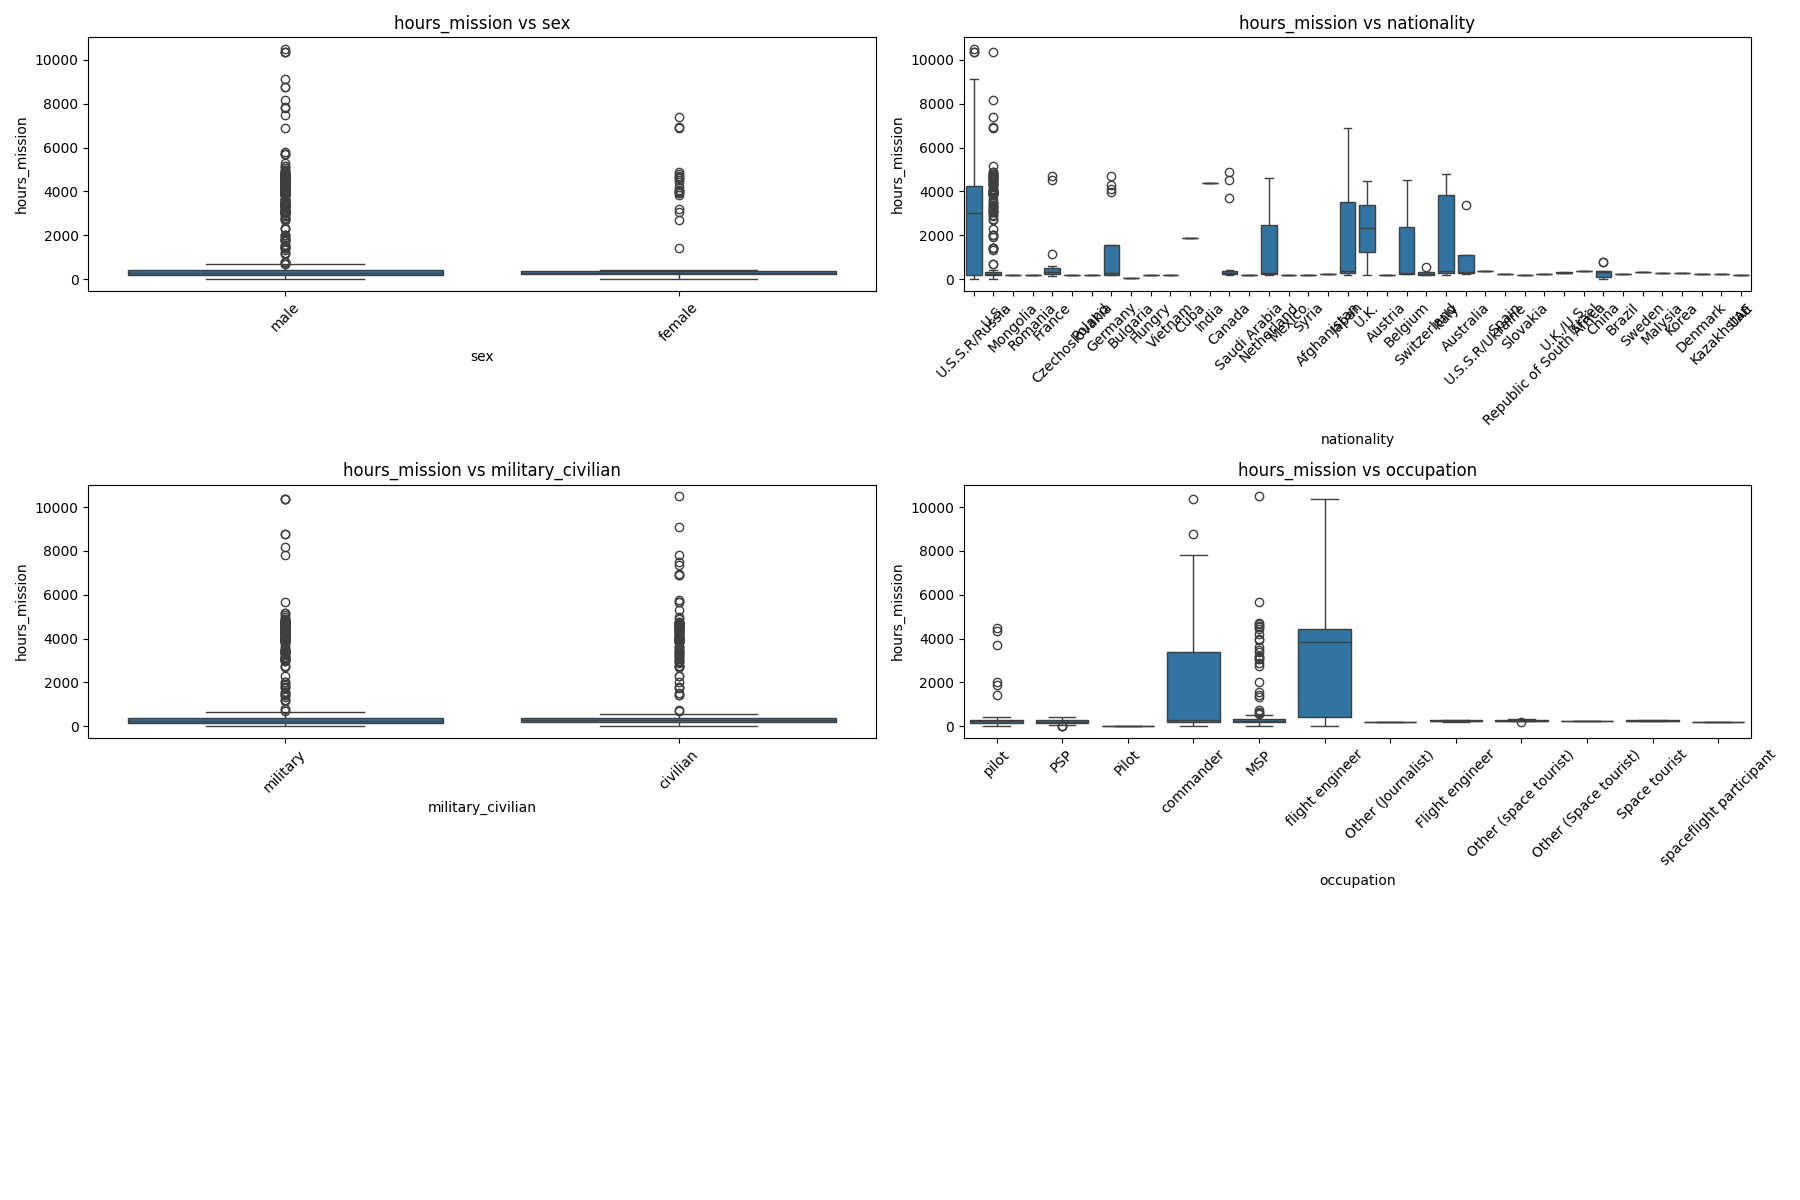
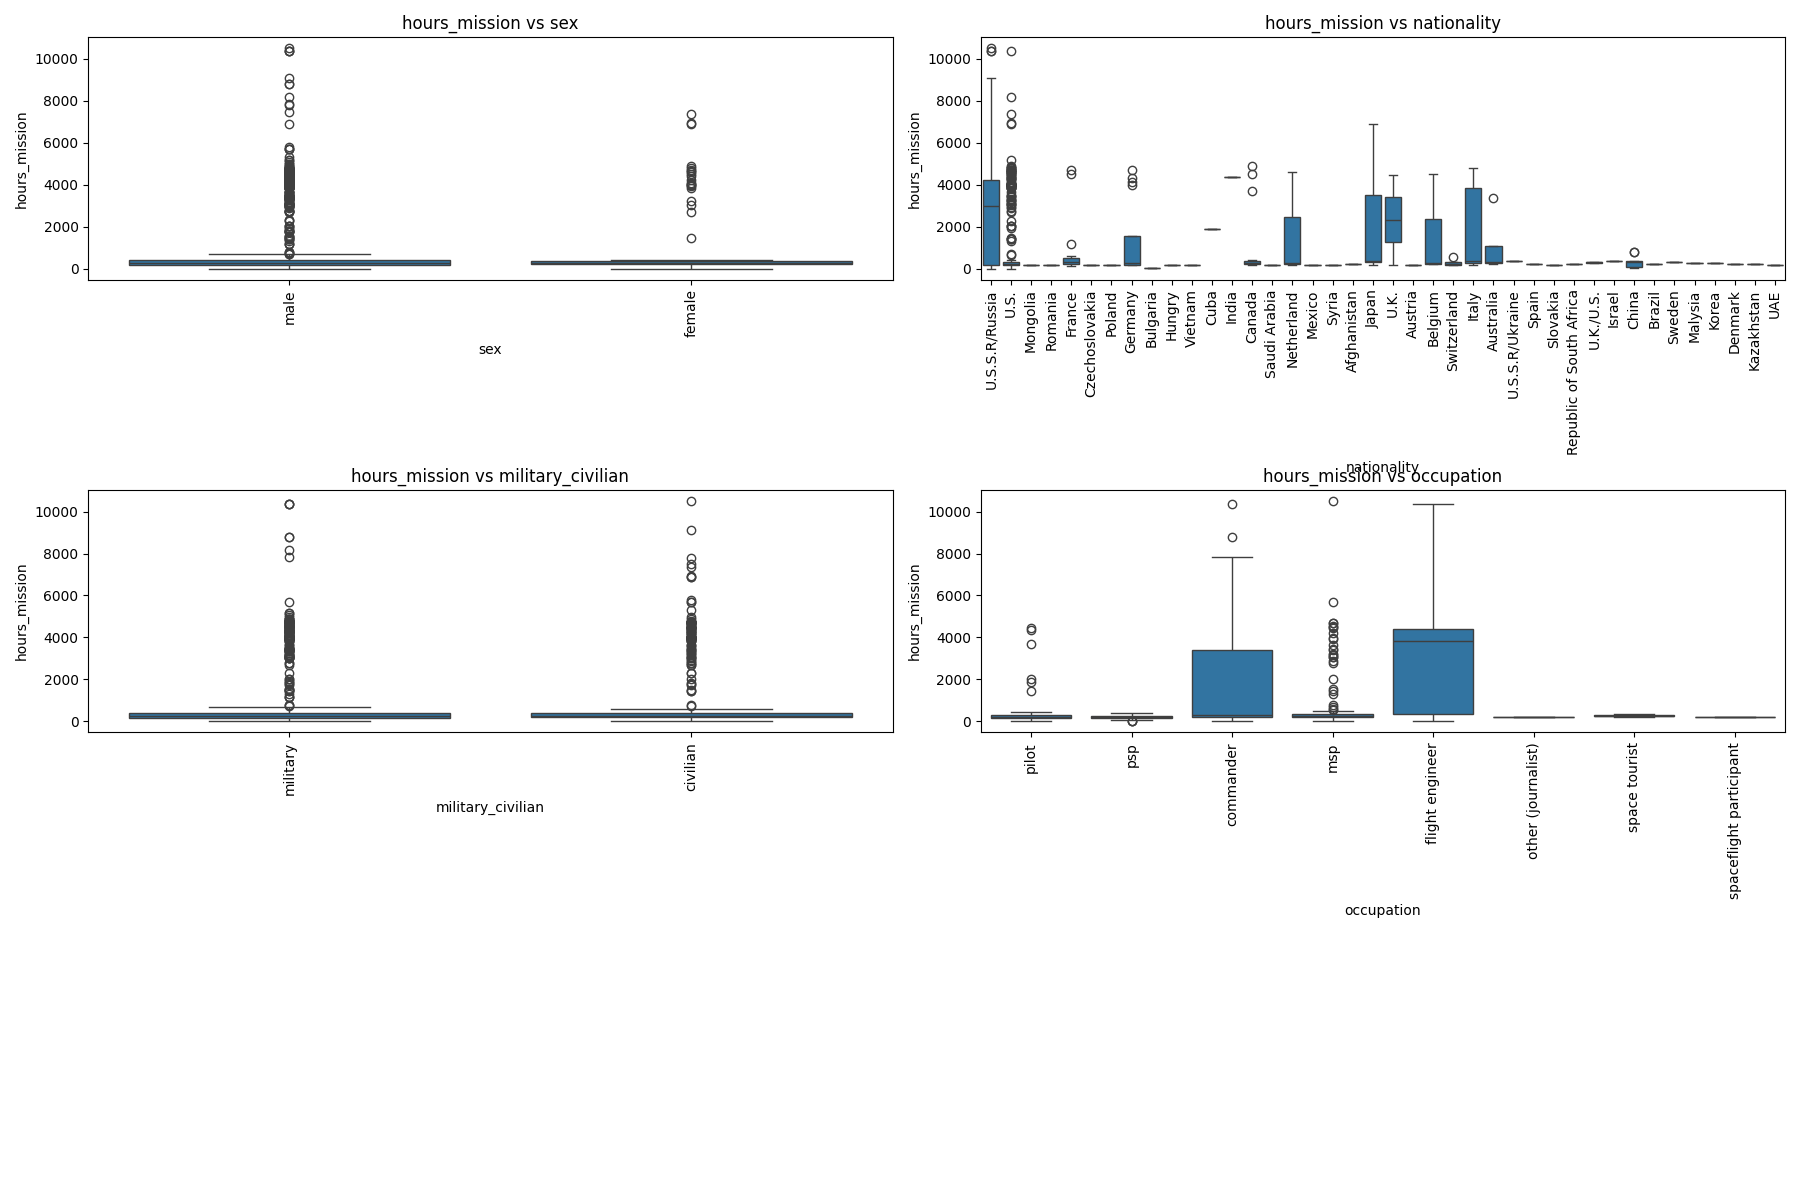
Ejercicio 1 realizado.

diff --git a/ejercicio1_descriptivo.py b/ejercicio1_descriptivo.py
@@ -17,6 +17,44 @@ def load_data(path):
     """
     return pd.read_csv(path)
 
+def preprocess_df(df):
+    """
+    Limpieza y feature engineering del dataset.
+    """
+
+    df = df.copy()
+
+    # ---------------------------
+    # Feature engineering
+    # ---------------------------
+    df["age"] = df["year_of_mission"] - df["year_of_birth"]
+    df["years_since_selection"] = df["year_of_mission"] - df["year_of_selection"]
+
+    # ---------------------------
+    # Drop columnas irrelevantes
+    # ---------------------------
+    cols_to_drop = [
+        "id",
+        "name",
+        "original_name",
+        "number",
+        "nationwide_number",
+        "field21",
+        "year_of_birth"
+    ]
+
+    df = df.drop(columns=cols_to_drop)
+
+    # ---------------------------
+    # Limpieza occupation
+    # --------------------------
+    df["occupation"] = df["occupation"].str.strip().str.lower()
+
+    df["occupation"] = df["occupation"].replace({
+        "other (space tourist)": "space tourist"
+    })
+
+    return df
 
 def structural_summary(df):
     """
@@ -91,32 +129,6 @@ def numerical_summary(df):
     dict: información de outliers para hours_mission
     """
 
-    df = df.copy()  # 🔒 evita modificar el original
-
-    # ---------------------------
-    # Feature engineering
-    # ---------------------------
-    df["age"] = df["year_of_mission"] - df["year_of_birth"]
-    df["years_since_selection"] = df["year_of_mission"] - df["year_of_selection"]
-
-    # ---------------------------
-    # Columnas a eliminar
-    # ---------------------------
-    cols_to_drop = [
-        "id",
-        "name",
-        "original_name",
-        "number",
-        "nationwide_number",
-        "field21",
-        "year_of_birth"
-    ]
-
-    df = df.drop(columns=cols_to_drop)
-
-    # ---------------------------
-    # Variables numéricas
-    # ---------------------------
     num_df = df.select_dtypes(include=[np.number])
 
     # ---------------------------
@@ -179,10 +191,10 @@ def plot_boxplots(df, target, cat_cols, output_path):
     for i, col in enumerate(cat_cols):
         plt.subplot((n // 2) + 1, 2, i + 1)
         sns.boxplot(data=df, x=col, y=target)
-        plt.xticks(rotation=45)
+        plt.xticks(rotation=90)
+        plt.tight_layout()
         plt.title(f"{target} vs {col}")
 
-    plt.tight_layout()
     plt.savefig(output_path)
     plt.close()
 
@@ -201,8 +213,145 @@ def detect_outliers_iqr(df, col):
 
     return stats
 
+def summarize_outliers(df):
+    """
+    Calcula número de outliers por variable numérica usando IQR.
+
+    Returns:
+    dict: {columna: nº de outliers}
+    """
+    num_df = df.select_dtypes(include=[np.number])
+
+    results = {}
+
+    for col in num_df.columns:
+        stats = detect_outliers_iqr(num_df, col)
+        results[col] = stats["n_outliers"]
+
+    return results
+
+def categorical_analysis(df, output_path, top_n=10):
+    """
+    Genera análisis de variables categóricas:
+    - Frecuencia absoluta y relativa
+    - Gráficos de barras (top N categorías)
+
+    Parameters:
+    df (pd.DataFrame): Dataset ya preprocesado
+    output_path (str): Ruta de guardado
+    top_n (int): número de categorías a mostrar
+    """
+
+    cat_cols = df.select_dtypes(include=["object", "string"]).columns
+
+    n = len(cat_cols)
+
+    plt.figure(figsize=(18, 5 * n))
+
+    results = {}
+
+    for i, col in enumerate(cat_cols):
+
+        # ---------------------------
+        # Frecuencias
+        # ---------------------------
+        freq_abs = df[col].value_counts()
+        freq_rel = df[col].value_counts(normalize=True) * 100
+
+        summary = pd.DataFrame({
+            "count": freq_abs,
+            "percentage": freq_rel
+        })
+
+        results[col] = summary
+
+        # ---------------------------
+        # Top N para graficar
+        # ---------------------------
+        top_data = summary.head(top_n)
+
+        # ---------------------------
+        # Plot
+        # ---------------------------
+        plt.subplot(n, 1, i + 1)
+
+        labels = [
+            f"{cat} ({pct:.1f}%)"
+            for cat, pct in zip(top_data.index, top_data["percentage"])
+        ]
+
+        sns.barplot(
+            x=labels,
+            y=top_data["count"]
+        )
+
+        plt.title(f"{col}")
+        plt.xticks(rotation=45)
+
+    plt.tight_layout()
+    plt.savefig(output_path)
+    plt.close()
+
+    return results
+
+def plot_correlation_heatmap(df, output_path):
+    """
+    Genera heatmap de correlaciones (Pearson) para variables numéricas.
+    """
+
+    num_df = df.select_dtypes(include=[np.number])
+
+    corr = num_df.corr(method="pearson")
+
+    plt.figure(figsize=(12, 10))
+
+    sns.heatmap(
+        corr,
+        annot=True,
+        fmt=".2f",
+        cmap="coolwarm",
+        center=0
+    )
+
+    plt.title("Matriz de correlación (Pearson)")
+    plt.tight_layout()
+    plt.savefig(output_path)
+    plt.close()
+
+    return corr
+
+def get_top_correlations(corr_matrix, target, n=3):
+    """
+    Obtiene las variables más correlacionadas con el target.
+    """
+
+    target_corr = corr_matrix[target].drop(target)
+
+    top_corr = target_corr.abs().sort_values(ascending=False).head(n)
+
+    return top_corr
+
+def detect_multicollinearity(corr_matrix, threshold=0.9):
+    """
+    Detecta pares de variables altamente correlacionadas.
+    """
+
+    pairs = []
+
+    cols = corr_matrix.columns
+
+    for i in range(len(cols)):
+        for j in range(i + 1, len(cols)):
+            val = corr_matrix.iloc[i, j]
+
+            if abs(val) > threshold:
+                pairs.append((cols[i], cols[j], val))
+
+    return pairs
 
 if __name__ == "__main__":
+    
+    # 1. Cargar datos
     df = load_data("data/astronauts.csv")
 
     summary = structural_summary(df)
@@ -213,38 +362,62 @@ if __name__ == "__main__":
     print("\nTipos de datos:\n", summary["dtypes"])
     print("\nValores nulos:\n", summary["nulls"])
 
-    df = pd.read_csv("data/astronauts.csv")
+    # 2. Preprocesar UNA vez
+    df_clean = preprocess_df(df)
 
+    # 3. Estadísticos
     desc, target_metrics = numerical_summary(df)
 
-    # Guardar output requerido
     desc.to_csv("output/ej1_descriptivo.csv", float_format="%.3f")
 
-    # ---------------------------
-    # Histogramas
-    # ---------------------------
-    plot_histograms(
-        df,
-        output_path="output/ej1_histogramas.png"
-    )
+    # 4. Histogramas
+    plot_histograms(df_clean, "output/ej1_histogramas.png")
 
-    # ---------------------------
-    # Boxplots (target vs categóricas)
-    # ---------------------------
-
+    # 5. Boxplots
     target = "hours_mission"
 
-    categorical_cols = df.select_dtypes(include=["object"]).columns.tolist()
+    categorical_cols = df_clean.select_dtypes(include=["object", "string"]).columns.tolist()
 
-    # opcional: limpiar categóricas irrelevantes
     categorical_cols = [
         col for col in categorical_cols
-        if df[col].nunique() < 50  # evita variables tipo nombre
+        if df_clean[col].nunique() < 50
     ]
 
-    plot_boxplots(
-        df,
-        target=target,
-        cat_cols=categorical_cols,
-        output_path="output/ej1_boxplots.png"
+    plot_boxplots(df_clean, target, categorical_cols, "output/ej1_boxplots.png")
+
+    # 6. Outliers
+    outliers_summary = summarize_outliers(df_clean)
+
+    with open("output/ej1_outliers.txt", "w") as f:
+        f.write("Método utilizado: IQR (1.5 * IQR)\n\n")
+
+        total = len(df_clean)
+
+        for col, n in outliers_summary.items():
+            pct = (n / total) * 100
+            f.write(f"{col}: {n} outliers ({pct:.2f}%)\n")
+
+    # 7. Variables categóricas
+    cat_results = categorical_analysis(
+        df_clean,
+        output_path="output/ej1_categoricas.png"
     )
+
+# 8. Correlaciones
+
+corr_matrix = plot_correlation_heatmap(
+    df_clean,
+    output_path="output/ej1_heatmap_correlacion.png"
+)
+
+# Top 3 variables correlacionadas con el target
+top_corr = get_top_correlations(corr_matrix, target="hours_mission")
+
+print("\nTop correlaciones con hours_mission:\n", top_corr)
+
+# Multicolinealidad
+high_corr_pairs = detect_multicollinearity(corr_matrix)
+
+print("\nPares con alta correlación (>0.9):")
+for pair in high_corr_pairs:
+    print(pair)

diff --git a/Respuestas.md b/Respuestas.md
@@ -82,11 +82,28 @@ La curtosis (4.316) indica una distribución leptocúrtica, con alta concentraci
 
 En conjunto, estos resultados muestran que hours_mission no sigue una distribución normal y presenta valores extremos que deberán ser considerados en el análisis posterior.
 
+### C) Distribuciones
+
+Las variables year_of_selection, year_of_mission y total_number_of_missions no presentan valores atípicos según el criterio IQR, lo que sugiere distribuciones relativamente estables y sin valores extremos.
+
+Esto indica que estas variables no requieren tratamiento específico en términos de outliers y pueden ser utilizadas directamente en el análisis posterior.
+
+En el gráfico de boxplots es interesante observar que hay países que tienen más valores extremos que otros (es lógico suponer que sus astronautas pasaron más tiempo en misiones que otros), como así hay ocupaciones que también tienen más horas de misión que otras: comandante, Mission Specialist (MSP) e ingeniero de vuelo lógicamente superan a turista espacial.
+
+### D) Variables categóricas
+
+En lo que respecta al género, hay una clara predominancia de hombres (88.8%) por sobre mujeres, lo cual es consistente con la historia de la exploración espacial.
+En otras variables como nationality o occupation, la distribución es más dispersa, aunque sigue habiendo ciertas categorías predominantes: EEUU domina el ranking de países con el 66.9% y MSP el de ocupaciones con el 39%. La proporción entre militares y civiles también es más pareja, sin embargo los primeros representan el 60.2%.
+
+### E) Correlaciones
+
+La variable objetivo "hours_mission" está muy correlacionada con "total_hrs_sum", ya que ésta un agregado de la primera (casi la misma información). 
+
 ---
 
 **Pregunta 1.1** — ¿De qué fuente proviene el dataset y cuál es la variable objetivo (target)? ¿Por qué tiene sentido hacer regresión sobre ella?
 
-> El dataset proviene de la iniciativa pública TidyTuesday (repositorio de datos abiertos en GitHub), concretamente del conjunto de datos sobre astronautas publicado en julio de 2020:
+El dataset proviene de la iniciativa pública TidyTuesday (repositorio de datos abiertos en GitHub), concretamente del conjunto de datos sobre astronautas publicado en julio de 2020:
 
 https://github.com/rfordatascience/tidytuesday/blob/main/data/2020/2020-07-14/astronauts.csv
 
@@ -102,15 +119,40 @@ Por lo tanto, se trata de una variable adecuada para estudiar relaciones cuantit
 
 **Pregunta 1.2** — ¿Qué distribución tienen las principales variables numéricas y has encontrado outliers? Indica en qué variables y qué has decidido hacer con ellos.
 
-> _Escribe aquí tu respuesta_
+Las variables numéricas del dataset presentan en su mayoría distribuciones asimétricas, especialmente aquellas relacionadas con la duración y acumulación de actividad espacial.
+
+En particular, variables como hours_mission, total_hrs_sum, eva_hrs_mission y total_eva_hrs muestran distribuciones fuertemente sesgadas a la derecha, lo cual indica la presencia de valores extremos altos en un pequeño número de observaciones. Esto es consistente con la naturaleza del fenómeno, donde algunas misiones presentan duraciones significativamente mayores que el resto.
+
+En contraste, variables temporales como year_of_mission y year_of_selection presentan distribuciones más simétricas y estables, sin evidencia de outliers según el criterio IQR.
+
+Respecto a los outliers detectados mediante el método IQR (1.5×IQR), se observa que:
+
+- hours_mission presenta un 21.77% de outliers
+- eva_hrs_mission presenta un 15.27% de outliers
+- total_hrs_sum presenta un 7.91% de outliers
+- total_eva_hrs presenta un 3.52% de outliers
+
+El resto de variables presenta proporciones marginales o nulas.
+
+Dado el contexto del dataset, estos outliers no se consideran errores de medición, sino parte estructural de la variabilidad del dominio (misiones de distinta duración y complejidad). Por este motivo, no se ha aplicado eliminación de outliers, ya que podría eliminar información relevante del fenómeno analizado.
 
 **Pregunta 1.3** — ¿Qué tres variables numéricas tienen mayor correlación (en valor absoluto) con la variable objetivo? Indica los coeficientes.
 
-> _Escribe aquí tu respuesta_
+Las tres variables numéricas con mayor correlación en valor absoluto con la variable objetivo hours_mission son las siguientes:
+
+1. total_hrs_sum → r = 0.7029
+2. year_of_mission → r = 0.3771
+3. eva_hrs_mission → r = 0.3814
+
+Estas correlaciones indican que la duración de la misión está fuertemente asociada con la experiencia acumulada del astronauta (total_hrs_sum), lo cual es coherente con la intuición del problema.
+
+Asimismo, se observa una relación moderada con variables temporales como year_of_mission, lo que sugiere un efecto de evolución histórica en la duración de las misiones espaciales (misiones más recientes tienden a tener perfiles distintos).
+
+Finalmente, la variable eva_hrs_mission también presenta una correlación moderada, lo que indica que las actividades extravehiculares están parcialmente asociadas a misiones de mayor duración.
 
 **Pregunta 1.4** — ¿Hay valores nulos en el dataset? ¿Qué porcentaje representan y cómo los has tratado?
 
-> Sí, hay valores nulos en el dataset pero representan menos del 1%. Como ni siquiera son variables numéricas, o categóricas que se vayan a usar, se mantienen como están. 
+Sí, hay valores nulos en el dataset pero representan menos del 1%. Como ni siquiera son variables numéricas, o categóricas que se vayan a usar, se mantienen como están. 
 
 ---
 
